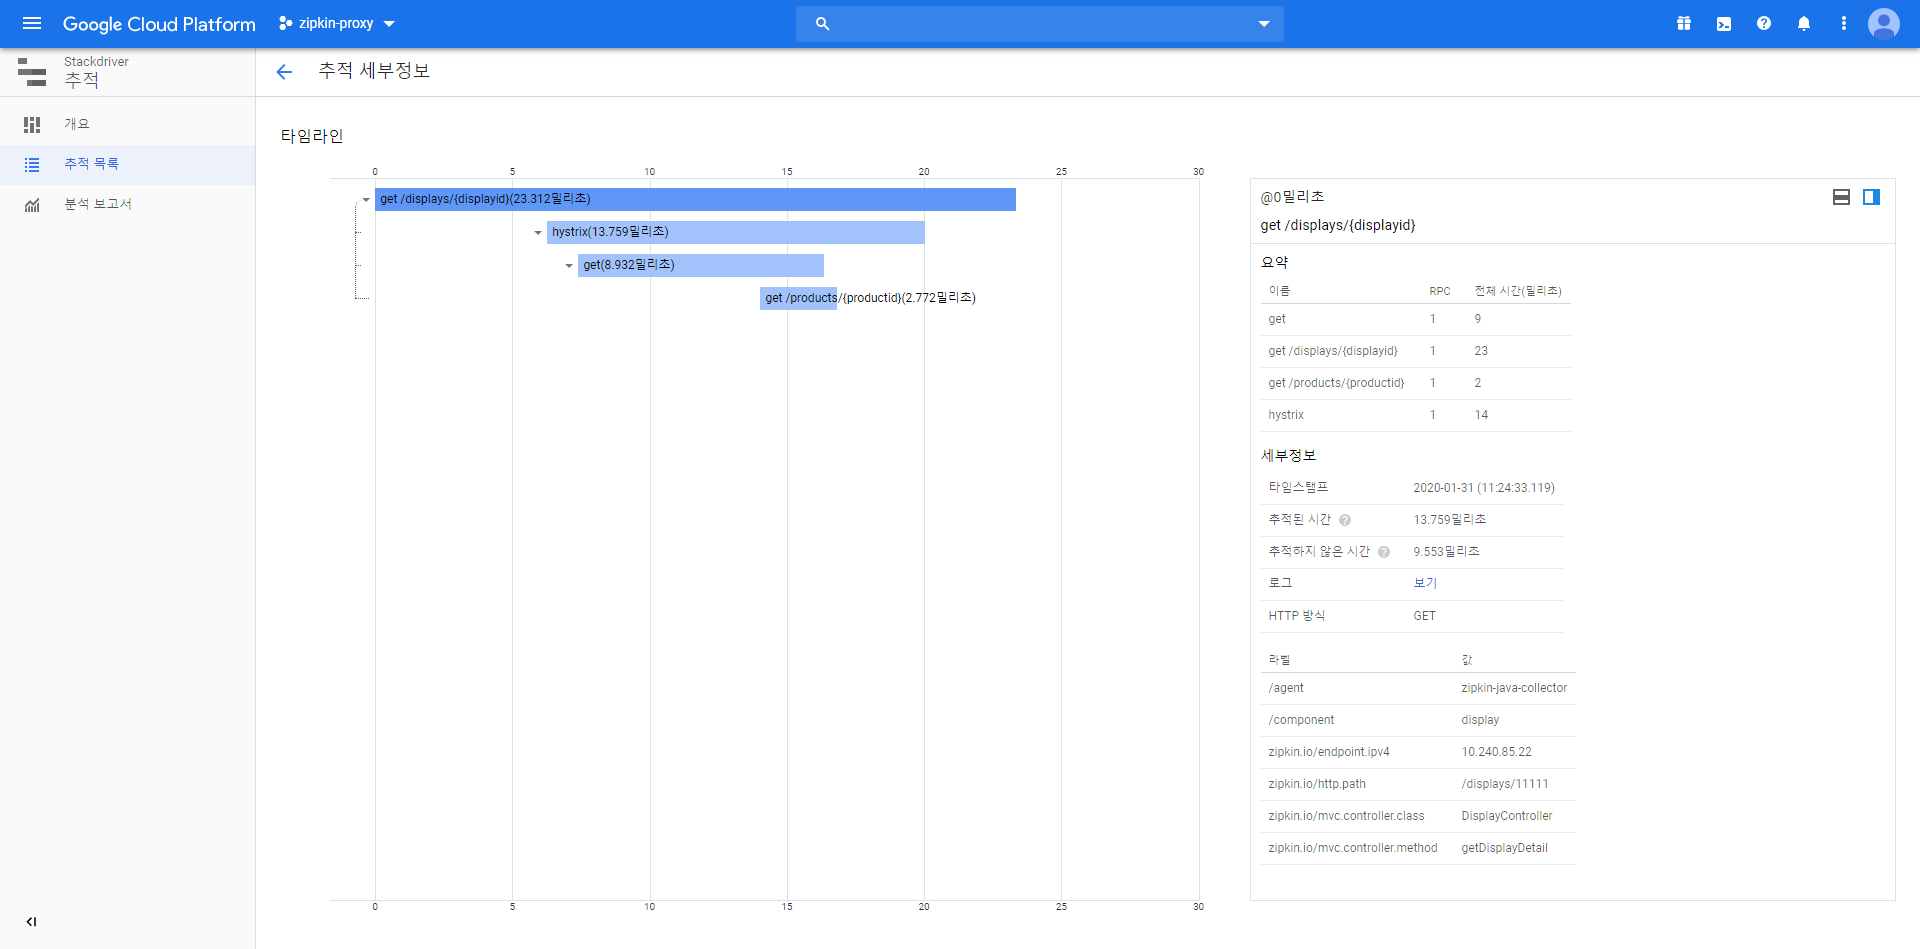
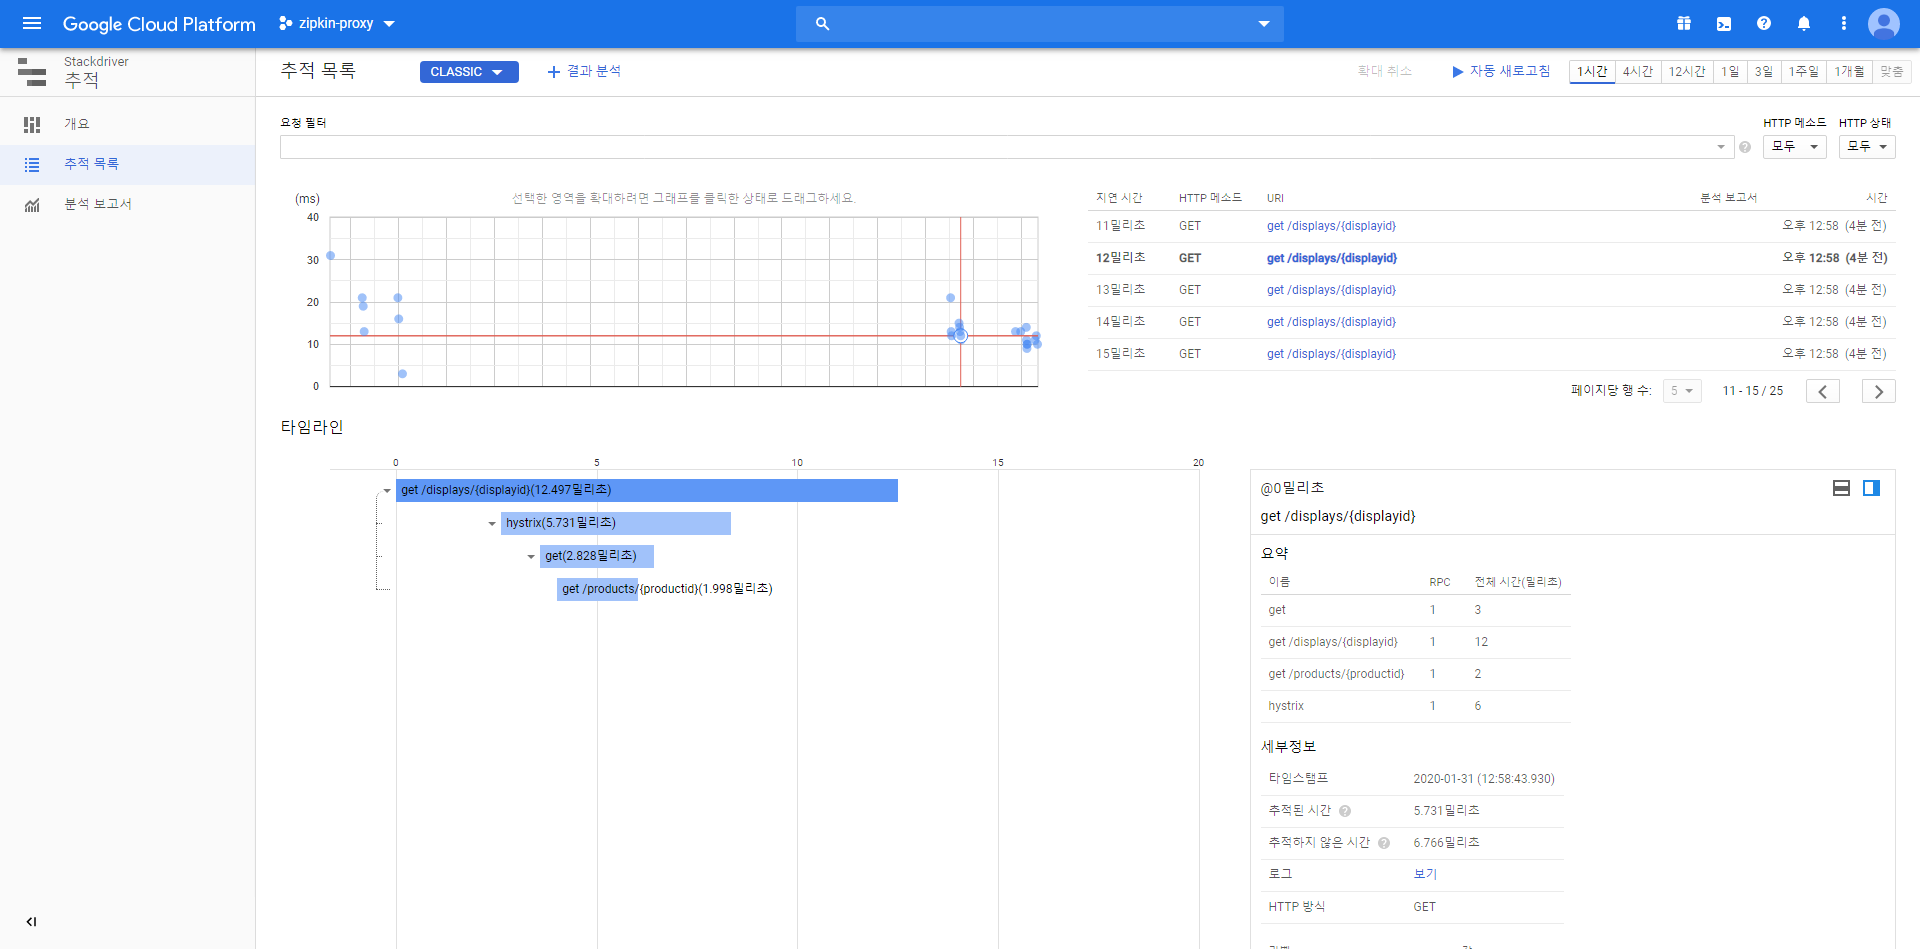
stackdriver-report

diff --git a/README.md b/README.md
@@ -206,7 +206,7 @@ compile('com.google.cloud.trace.adapters.zipkin:collector:0.6.0') // To use Stac
 
 - Docker Image 또는 java jar 파일을 download하여 사용한다.
 - Google Cloud VM이나 Docker로 실행할 때는 상관 없지만, google cloud 밖에서 Zipkin Stackdriver collector를 실행할 때는 추가 인증 정보를 설정해야 한다.
-- Stack driver collector가 Stackdriver server(google cloud)로 log를 전달하기 위해서는 아무 log나 받으면 안되고 추가 인증된 log만 받아야 하는데 google cloud에서는 application 인증을 위해서 Service Account라는 JSON 파일을 사용한다. [![Sources](https://medium.com/google-cloud/distributed-tracing-spring-boot-microservices-with-stackdriver-trace-7fe42c6de3f3)
+- Stack driver collector가 Stackdriver server(google cloud)로 log를 전달하기 위해서는 아무 log나 받으면 안되고 추가 인증된 log만 받아야 하는데 google cloud에서는 application 인증을 위해서 Service Account라는 JSON 파일을 사용한다. [![Sources](https://img.shields.io/badge/출처-GoogleStackDriver-yellow)](https://medium.com/google-cloud/distributed-tracing-spring-boot-microservices-with-stackdriver-trace-7fe42c6de3f3)
 - Service Account 파일이 생성되면, 아래와 같이 `GOOGLE_APPLICATION_CREDENTAILS` 환경 변수에 Service account 파일의 경로를 지정하고 google cloud의 어느 project에 있는 Stack Driver와 연결할지를 `PROJECT_ID` 환경 변수에 Project명을 지정해주면 된다.
 
 ```
@@ -220,6 +220,7 @@ export PROJECT_ID="zipkin-proxy"
 [Result]
 ![Stackdriver](images/stackdriver_trace_result1.png)
 ![Stackdriver](images/stackdriver_trace_result2.png)
+![Stackdriver](images/stackdriver_trace_result3.png)
 
 ---
 
